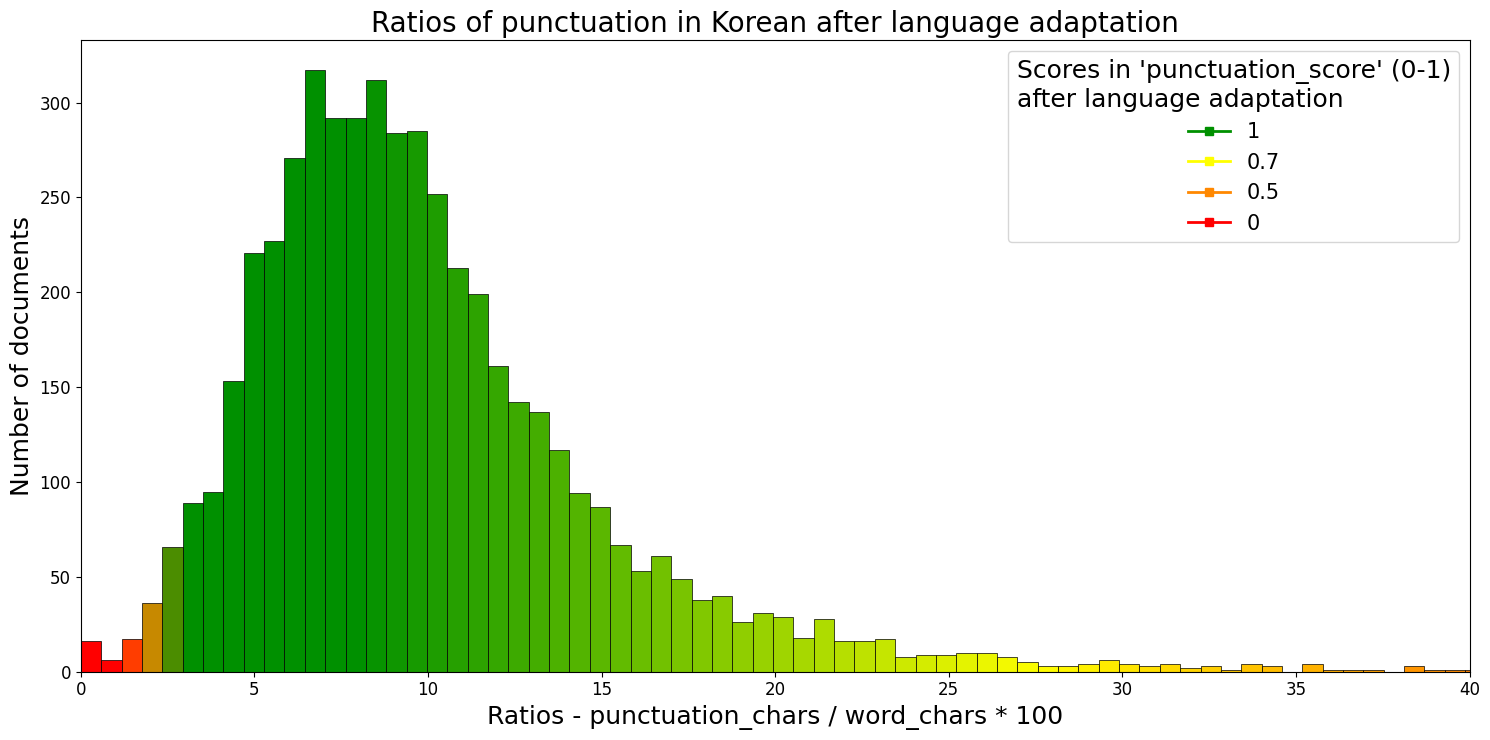
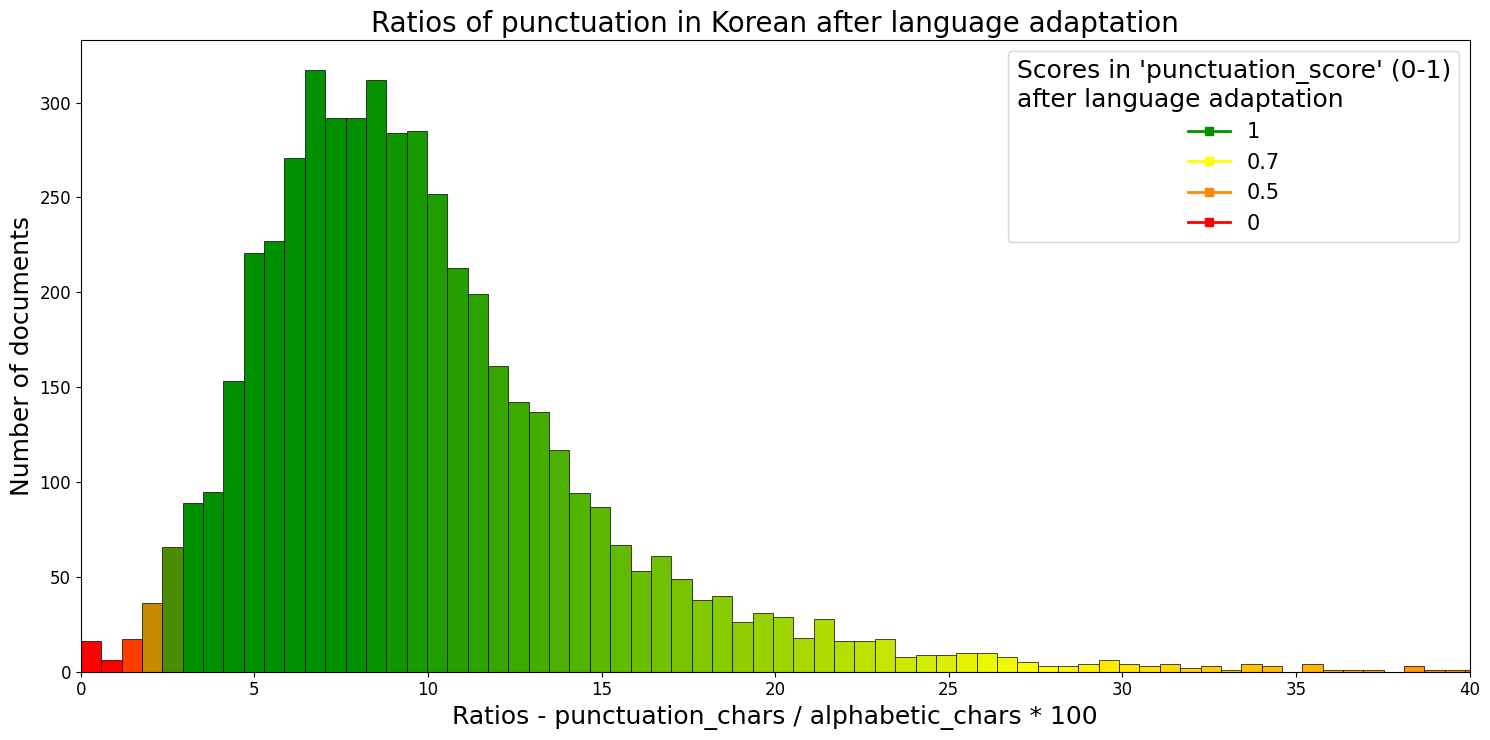
README UPDATES
I think Gema's and Marta's issues are all solved
Histograms changed "word_chars" - "alphabetic_chars"

Changed region(s): [[0.3087, 0.9324, 0.7409, 0.9946]]

diff --git a/qualifications_score_charts.py b/qualifications_score_charts.py
@@ -126,9 +126,9 @@ html = """
               '<td><b>Punctuation score: </b><span class="score">' + punctScore + '<span class="color" style="background-color: ' + colorLanguageScore(punctScore, 0.5, 1) +'; "></span></span></td>' + '</tr>' + '<tr>' +
               '<td><b>Bad chars score: </b><span class="score">' + badCharsScore + '<span class="color" style="background-color: ' + colorLanguageScore(badCharsScore, 0.5, 1) +'; "></span></span></td>' + '</tr>' + '<tr>' +
               '<td><b>Numbers score: </b><span class="score">' + numbersScore + '<span class="color" style="background-color: ' + colorLanguageScore(numbersScore, 0.5, 1) +'; "></span></span></td>' + '</tr>' + '<tr>' +
-              '<td><b>Spam score: </b><span class="score">' + spamScore + '<span class="color" style="background-color: ' + colorLanguageScore(spamScore, 0.5, 1) +'; "></span></span></td>' + '</tr>' + '<tr>' +
+              '<td><b>Repeated score: </b><span class="score">' + spamScore + '<span class="color" style="background-color: ' + colorLanguageScore(spamScore, 0.5, 1) +'; "></span></span></td>' + '</tr>' + '<tr>' +
               '<td><b>Big segments score: </b><span class="score">' + nBigSegmentsScore + '<span class="color" style="background-color: ' + colorLanguageScore(nBigSegmentsScore, 0, 1, '#CCB22E') +'; "></span></span></td>' + '</tr>' + '<tr>' +
-              '<td><b>Great segments score: </b><span class="score">' + greatSegmentScore + '<span class="color" style="background-color: ' + colorLanguageScore(greatSegmentScore, 0, 1, '#CCB22E') +'; "></span></span></td>' + '</tr>' + '</table>' + '</div>';
+              '<td><b>Largest segments score: </b><span class="score">' + greatSegmentScore + '<span class="color" style="background-color: ' + colorLanguageScore(greatSegmentScore, 0, 1, '#CCB22E') +'; "></span></span></td>' + '</tr>' + '</table>' + '</div>';
         }      
         
         

diff --git a/README.md b/README.md
@@ -1,6 +1,6 @@
 # Quality text tagger
 
-Quality Text Tagger is an application that analyzes monolingual documents (from crawled websites) and gives them a quality score that works as a measure of how good or bad the document is (see below). The score is on a  0 (really bad document) to 10 (very good document) scale, and it's obtained by taking into account textual indicators and metadata. 
+Quality Text Tagger is an application that analyzes monolingual documents (from crawled websites) and gives them a quality score that works as a measure of how good or bad the document is (see below). The score is on a  0 (really bad document) to 10 (very good document) scale, and it is obtained by taking into account textual indicators and metadata. 
 
 Good documents (scores 5-10) are those mainly made of linguistic data, containing a large portion of running text distributed across long and well constructed paragraphs. Conversely, bad documents (scores 0-4) are mainly made of non-linguistic characters (like code or emojis) or contain an excess of numbers, puctuation symbols, segment repetitions, etc.  
 
@@ -9,7 +9,25 @@ Quality Text Tagger requires the input documents to be formatted in JSONL, conta
 
 # Table of contents
 
-**[MBG]to do!**
+1. [How does the tagger work](https://gitlab.prompsit.com/hplt/quality-text-tagger#how-does-the-tagger-work)
+    1. [Computing the _quality_score_](https://gitlab.prompsit.com/hplt/quality-text-tagger#computing-the-quality_score)
+    2. [An example of the _quality_score_](https://gitlab.prompsit.com/hplt/quality-text-tagger#an-example-of-the-quality_score)
+    3. [Another example of the _quality_score_](https://gitlab.prompsit.com/hplt/quality-text-tagger#another-example-of-the-quality_score)
+2. [Usage](https://gitlab.prompsit.com/hplt/quality-text-tagger#usage)
+    1. [crawled_text_qualifier.py (main script)](https://gitlab.prompsit.com/hplt/quality-text-tagger#crawled_text_qualifierpy-main-script)
+    2. [quality_score_charts.py](https://gitlab.prompsit.com/hplt/quality-text-tagger#quality_score_chartspy)
+    3. [language_adaptation/extract_ratios.py](https://gitlab.prompsit.com/hplt/quality-text-tagger#language_adaptationextract_ratiospy)
+3. [Computing the _penalty_score_](https://gitlab.prompsit.com/hplt/quality-text-tagger#computing-the-penalty_score)
+4. [Computing subscores](https://gitlab.prompsit.com/hplt/quality-text-tagger#computing-subscores)
+    1. [language_score](https://gitlab.prompsit.com/hplt/quality-text-tagger#language_score)
+    2. [big_segments_score and largest_segments_score](https://gitlab.prompsit.com/hplt/quality-text-tagger#big_segments_score-and-largest_segments_score)
+    3. [urls_score](https://gitlab.prompsit.com/hplt/quality-text-tagger#urls_score)
+    4. [numbers_score](https://gitlab.prompsit.com/hplt/quality-text-tagger#numbers_score)
+    5. [punctuation_score](https://gitlab.prompsit.com/hplt/quality-text-tagger#punctuation_score)
+    6. [bad_chars_score](https://gitlab.prompsit.com/hplt/quality-text-tagger#bad_chars_score)
+    7. [repeated_score](https://gitlab.prompsit.com/hplt/quality-text-tagger#repeated-segments-repeated_score)
+5. [Adaptating subscores to different languages](https://gitlab.prompsit.com/hplt/quality-text-tagger#adaptating-subscores-to-different-languages)
+6. [Glossary](https://gitlab.prompsit.com/hplt/quality-text-tagger#glossary)
 
  
 ## How does the tagger work
@@ -18,7 +36,7 @@ In order to give a **_quality_score_** to a document, the quality text tagger co
 
 | Subcore  |  Based on   |  Scale   | 
 |---|---|---|
-| language_score | ratio of characters in the correct language vs. total characters | 0 - 10 | 
+| language_score | ratio of [alphabetic characters](https://gitlab.prompsit.com/hplt/quality-text-tagger#glossary) in the correct language vs. total characters | 0 - 10 | 
 | big_segments_score | amount of long segments (alphabetic characters) | 0 - 1 | 
 | largest_segments_score | length of largest text segments | 0 - 1 | 
 | urls_score | ratio of URLs vs. total segments | 0 - 1 | 
@@ -52,9 +70,9 @@ Note that the _language_score_ is weighted (since it scores from 0 to 10, while 
 
 `penalty_score = first_lowest_negative_subscore_value * second_lowest_negative_subscore_value * average (remaining_negative_subscores_values) `
 
-`first_lowest_negative_subscore_value` and `second_lowest_negative_subscore_value` are the two subscores with the lowest values.  Please, see section [Computing the _penalty_score_](https://gitlab.prompsit.com/hplt/quality-text-tagger/-/blob/main/README.md#computing-the-penalty_score) for more details.
+`first_lowest_negative_subscore_value` and `second_lowest_negative_subscore_value` are the two subscores with the lowest values. Thus, a 0 value in any of the negative scores will suppose a 0 score in the final _quality_score_ regardless the other scores.  Please, see section [Computing the _penalty_score_](https://gitlab.prompsit.com/hplt/quality-text-tagger/-/blob/main/README.md#computing-the-penalty_score) for more details.
 
-3. Finally, we get the final **_quality_score_** by multipliying the **_basic_score_** by the **_penalty_score_**: 
+3. Finally, we get the final **_quality_score_** by multipliying the **_basic_score_** by the **_penalty_score_**. Note that _penalty_score_ is always 0-1:
 
 `quality score = basic score * penalty score`
 
@@ -97,8 +115,7 @@ As explained in the section above, the **_quality_score_** of the document is co
 
 **quality score** = 9.32 x 0,88 = **8.2** 
 
-This means that this document a good document (**_quality_score_** = 8.2/1) that is clearly in Italian (_language_score_ = 9.9/10). It probably contains a considerable amount of textual data in some segments (_largest_segment_score_ = 1/1), but it only contains 4 long segments (_big_segments_score_ = 0.4/1).
-[MBG] Plz explain a bit more what " contains a considerable amount of textual data in some segments" means. 
+This means that the previous example is a good document (**_quality_score_** = 8.2/10), that is clearly in Italian (_language_score_ = 9.9/10). It probably contains a considerable amount of textual data in some segments (_largest_segment_score_ = 1/1), because there is almost one 'very big segment', but it only contains 4 'big segments' (_big_segments_score_ = 0.4/1). For Italian we consider 'very big segments' those with more than 1208 alphabetic characters and to be considered a 'big segment' almost 302 alphabetic characters are needed. For more information about these scores see the [big_segments_score and largest_segments_score](https://gitlab.prompsit.com/hplt/quality-text-tagger#big_segments_score-and-largest_segments_score) and [Adaptating subscores to different languages](https://gitlab.prompsit.com/hplt/quality-text-tagger#adaptating-subscores-to-different-languages) sections.
 
 The document does not contain enough URLs, punctuation or bad characters noise to be penalized because of it (_url_score_ = 1/1, _punctuation_score_ = 1/1, _bad_chars_score_ = 1/1). It contains a small excess of numbers (_numbers_score_ = 0.92/1), which could be due to the presence of a calendar present in the text:
 
@@ -112,7 +129,7 @@ The document also has some repeated segments (_repeated_score_ = 0.96/1) caused 
 
 ### Another example of the _quality_score_
 
-The following excerpt belongs to the file `example/example2.txt`, a Chinese document from the HPLT v1.2 dataset. The document got a **quality_score** of 1.5:
+The following excerpt belongs to the file `example/example2.txt`, a bad scored Chinese document from the HPLT v1.2 dataset. The document got a **_quality_score_** of 1.5:
 
 > [...]
 >  
@@ -153,7 +170,7 @@ This text seems to be mostly made of short segments (note the very low values fo
 
 
 The document does not seem to have bad punctuation or bad characters, and it does not contain repeated sentences. However, it has an excess of numeric characters and URLs. This has a high impact on the _penalty_score_ value:
-U
+
 |penalty score| Result |
 |---|---|
 |0.44 * 0.56 * 0.97| 0.24 |
@@ -168,44 +185,69 @@ With such a low quality score, this document can be considered an undesirable do
 
 ## Usage
 
-[MBG] Please give this section a format in the fashion of  https://github.com/bitextor/bicleaner?tab=readme-ov-file#parameters-1
-(schematic + description + example)
 
-#### crawled_text_qualifier.py (main script)
+### crawled_text_qualifier.py
 
-Parameters 
-- **--input** directory with jsonl files provided by the language identifier
-- **--output:** existing directory
+The main script, it will create a csv for each jsonl present in the input directory. The input jsonl files must contain the next columns:
+- `id`: identifier of the document, must be unique.
+- `document_lang`: language label of the whole document.
+- `scores`: list of language probability scores from the language identifier.
+- `langs`: list of language labels for each segment of the document.
+- `text`: text of the document. Segments must be separated by _\n_.
 
-Output
-- will create one csv for each jsonl file.
-- columns: quality_score, language_score, url_score, punctuation_score, bad_chars_score, numbers_score, repeated_score,n_big_segments_score, great_segment_score
+The output csvs will contain the next columns. The final score will always be considered the _quality_score_:
+- quality_score
+- language_score
+- url_score
+- punctuation_score
+- bad_chars_score
+- numbers_score
+- repeated_score
+- n_big_segments_score
+- great_segment_score
 
-Requisites
+#### Parameters
+- ```input```: directory with jsonl files provided by the language identifier
+- ```output```: existing directory
+- ```config```: path of the `medians_language.csv` document
 
-- document `./language_adaptation/medians_language.csv` created by `./language_adaptation/extract_ratios.py` with samples of data
+#### Example
 
-#### quality_score_charts.py
+```python3 crawled_text_qualifier.py --input=input_dir --output=output_dir --config=language_adaptation/medians_language.csv ```
 
-Parameters 
-- **--input** directory with csv files created by `crawled_text_qualifier.py`
-- **--output:** existing directory
 
-Output
-- HTML document with histograms about all languages present in the input
+#### Requirements
+The document `./language_adaptation/medians_language.csv` created by `./language_adaptation/extract_ratios.py` is needed. It can be used the csv present by default in the repository or it can be created with custom data. These data is used as a model to undestand the differences between languages, so in a custom approach the text data used must be representative, diverse and comparable.
+
+### quality_score_charts.py
+
+Script that creates a HTML document with one histogram for every csv document in the input.
+
+#### Parameters 
+- ```input```: directory with the csvs obtained with `crawled_text_qualifier.py`
+- ```output```: existing directory
+
+#### Example
+
+```python3 quality_score_charts.py --input=input_dir --output=output_dir ```
+
+#### Requirements
+
+It is needed a directory with the `crawled_text_qualifier.py` output.
 
 #### language_adaptation/extract_ratios.py
 
-- **--input** directory with jsonl files with HPLT 1.2v like structure of key and values
-- **--output:** existing directory
+This script extracts the median ratios of numbers, punctuation and bad characters which are used to process the language adaptation from a sample of documents. The input data must consists in a jsonl file for every language with the structure of HPLT 1.2v. The selected data must be representative, diverse and comparable.
 
-Output
-- CSV that contains the medians of numbers, punctuation and bad characters ratios in every language present in the directory
+#### Parameters 
+- ```input```: directory with jsonl files they must have the HPLT 1.2v like structure regarding keys and values.
+- ```output```: existing directory
 
+#### Example
+
+```python3 extract_ratios.py --input=input_dir --output=output_dir ```
 
 ## Computing the _penalty_score_
-
-[MBG] Consider changing the name from "penalty score" to "booster", since it is actually multiplied by the first score instead of substracted from it (I got confused by the name)
 
 The _penalty_score_  is obtained with `crawled_text_qualifier.custom_mean()` . The subscores used to compute the **_penalty_score_** are those that represent the negative aspects of the document:
   *  _urls_score_
@@ -214,7 +256,7 @@ The _penalty_score_  is obtained with `crawled_text_qualifier.custom_mean()` . T
   * _bad_chars_score_
   * _repeated_score_
 
-The _penalty_score_ ranges on a scale from 0 (the document is severely penalized and gets a final quality score of 0) to 1 (no penalization is applied).
+The _penalty_score_ ranges on a scale from 0 (the document is severely penalized and gets a final _quality_score_ of 0) to 1 (no penalization is applied).
 
 To compute the _penalty_score_, the two lowest values from the aforementioned subsscores are multiplied by the average of the rest of values:
 
@@ -238,10 +280,9 @@ Segments below a certain length threshold are not taken into account to this met
 These two metrics are obtained with `crawled_text_qualifier.valorate_big_texts()`.  They get values between 0 and 1 that aim at determining the presence of large groups of alphabetic characters in the correct language. 
 
 Regarding the _big_segments_score_, a document receives 0.1 score points for every large segment, up to a maximum score of 1. The length of what we consider a 'large segment' depends on each language and is measured using alphabetic characters. In Spanish, we set the minimum number of alphabetic characters to 250 but in English, for example, the minimum is 232. For more details about language adaptation see the [Adapting subscores to different languages](https://gitlab.prompsit.com/hplt/quality-text-tagger/-/blob/main/README.md#adaptating-subscores-to-different-languages) section.
-[MBG] Consider  normalizing this value with the length of the document, in order to avoid penalizing short documents.
+<!-- [MBG] Consider  normalizing this value with the length of the document, in order to avoid penalizing short documents. -->
 
-On the other hand, the _largest_segments_score_ is used to measure whether a document contains at least one very large segment. The lenght of what we consider a 'very large segment' is also language-dependent. In Spanish, a segment of this kind has between 625 and 1000 alphabetic characters. Depending on the lenght, we assign a value from 0 to 1. If a segment containing 1000 alphabetic characters (or more) is found in a Spanish document, it will receive a score of 1. Likewise, if a document only contains segments with 625 or less alphabetic characters, the resulting _largest_segments_score_ will be 0. If there is more than one of these segments (between both thresholds), we use an average of them.
-[MBG] An example of the latter case, plz? You average them but how? the average of lenghts? And then it gets mapped to a value between 0 to 1? 
+On the other hand, the _largest_segments_score_ is used to measure whether a document contains at least one very large segment. The lenght of what we consider a 'very large segment' is also language-dependent. In Spanish, a segment of this kind has between 625 and 1000 alphabetic characters. Depending on the lenght, we assign a value from 0 to 1. If a segment containing 1000 alphabetic characters (or more) is found in a Spanish document, it will receive a score of 1. Likewise, if a document only contains segments with 625 or less alphabetic characters, the resulting _largest_segments_score_ will be 0. If there is more than one of these segments (inside both thresholds), we use an average of their lengths to calculate the value.
 
 ### urls_score
 
@@ -250,7 +291,7 @@ The _urls_score_ is language independent, and its value is not lineal. We first 
 
 `number_of_urls / number_of_segments * 100`
 
-Then, a final _urls_score_ is assigned to the document, depending on the percentage of URLs. Documents having more than a 5% of URLs are non-lineally penalized as follows:
+Then, a final _urls_score_ is assigned to the document, depending on the percentage of URLs. Documents having more than a 5% of URLs are lineally penalized as follows:
 
 | URL score  |    Ratio      |
 |---|---|
@@ -259,15 +300,13 @@ Then, a final _urls_score_ is assigned to the document, depending on the percent
 | 0.5 → 0 | 30 → 100 |
 | 0 | >100 |
 
-[MBG] The distribution is lineal in each step?
-
 ### numbers_score
 
 This metric is processed with `crawled_text_qualifier.valorate_numbers()`, and it's used to determine whether there is a high number of numeric characters in a document. It is computed by getting the percentage of numeric characters compared to alphabetic characters:
 
 `numeric_characters / alphabetic_characters * 100`
 
-This metric and its thresholds are non-lineal and language-dependent. In Spanish, for example, we assign scores as follows:
+This metric and its thresholds are lineal and language-dependent. In Spanish, for example, we assign scores as follows:
 
 | Number score  |    Percentage      |
 |---|---|
@@ -277,15 +316,13 @@ This metric and its thresholds are non-lineal and language-dependent. In Spanish
 | 0.5 → 0 | 15 → 30 |
 | 0 | >30 |
 
-[MBG]  Same question as above.
-
 ### punctuation_score
 
 The _punctuation_score_ is processed with `crawled_text_qualifier.valorate_punctuation()`. This score is used to penalize texts with too much or too little amount of punctuation characters. The percentage of punctuation characters is calculed this way:
 
 `punctuation_characters / alphabetic_characters * 100`
 
-Again, this metric and its threshold are non-linal and  language-dependent. In Spanish, for example, we give scores according to the following percentages of punctuation characters:
+Again, this metric and its threshold are lineal and  language-dependent. In Spanish, for example, we give scores according to the following percentages of punctuation characters:
 
 | Punctuation score  |    Percentage      |
 |---|---|
@@ -308,7 +345,7 @@ This subscores is processed with `crawled_text_qualifier.valorate_bad_chars()`, 
 
 `bad_characters / alphabetic_characters * 100`
 
-This score and its thresholds are non-lineal and language-dependent. In Spanish, for example, the score distribution is as follows:
+This score and its thresholds are lineal and language-dependent. In Spanish, for example, the score distribution is as follows:
 
 | Bad chars score  |    Percentage      |
 |---|---|
@@ -336,30 +373,36 @@ Also the 'short segments' threshold, indicating the minimum amount of characters
 
 In our experiments, as a first approach, we stablished the desidered ratios and thresholds for each indicator for the Spanish language, by using a sample  from HPLT v1.2. These ratios are valid for this language only, so an adaptation method is needed for other languages.
 
-In order to adapt the values to other languages, we used the scores and labels provided as metadata in HPLT v1.2. Using a random sample of 10k documents per language, we selected the 50% best language-scored documents ([MBG] Those with most segments in the document language? Plz specify.) and computed ratios for the punctuation, bad characters and numbers subscores. The median for each subscore was computed with `language_adaptation/extract_ratios.py` (GEMA: review this) and then stored in `language_adaptation/medians_language.csv`.Finally, medians are used in the main script (`crawled_text_qualifier.py`) in order to create equivalences between ratios and scores. (GEMA: and this)
+In order to adapt the values to other languages, we used the scores and labels provided as metadata in HPLT v1.2. in a sample of 10k documents per language. Every document was analized with a modified version of the [_language_score_](https://gitlab.prompsit.com/hplt/quality-text-tagger/-/blob/main/README.md#language_score). This language scoring is done like the other one with a difference, the number of correct alphabetic characters of every segment is multiplied by the language identificator probability of the segment. We want to know which documents have the highest proportion of segments and the better probability in the correct language. For example, let us consider a document with three segments, the first one has a language probability of 0.9 and contains 500 words characters. The second one is more confuse, with a probability of 0.4 with 25 alphabetic characters. The third is not in the correct language and has a lengh of 10 alphabetic characters. The calculation of this modified _language_score_ will be:
 
-Applying the Spanish ratios-score logic to other languages, which can be highly different, produces innacurate _quality_scores_. The histograms below show an example in Korean, where documents that look good got penalized:
+```
+sum(correct_word_characters * language_probability) / sum(correct_word_characters + wrong_word_characters) * 10
+
+(500 * 0.9 + 25 * 0.4) / (500 + 25 + 10) * 10 = 8.6
+```
+
+Using thse random samples of 10k documents, we selected the 50% best scored documents to extract their ratios for punctuation, bad characters and numbers. The medians of ratios, that we will need for each subscore, was computed with `language_adaptation/extract_ratios.py` and then stored in `language_adaptation/medians_language.csv`. Finally, medians are used in the main script (`crawled_text_qualifier.py`) in order to adapt ratios to every language.
+
+Applying the Spanish ratio-score equivalences to other languages, which can be highly different, produces innacurate _quality_scores_. The histograms below show an example in Korean, where documents that look good got penalized. The samples in the pictures are processed with the same ratio-score equivalences that we showed in the table of [_punctuation_score_](https://gitlab.prompsit.com/hplt/quality-text-tagger/-/blob/main/README.md#punctuation_score):
 
 ![alt text](example/spanish.png)
 ![alt text](example/korean_non_adapted.png)
 
-[MBG] I'd need to have the info on which were the thresholds in Spanish, so I can understand what gets (wrongly) discarded in Korean. Is it the median?
-
 Aiming at solving this problem, we decided to use medians as a point of reference to more accurately set score ranges. In the example above, Korean has a median of 7.3 in the punctuation score, while Spanish has a median of 2.4. We used this information to make a cross-multiplication in order to get a new and adapted score-ratio relation:
-
-[MBG] I replaced all the mentions to "word characters" to "alphabetic characters", because the other is confusing. If possible, plz change it in the histograms.
 
 ![alt text](example/korean_adapted.png)
 
-Using another example, the median of both Russian and Spanish for bad chararcters is the same (0.8), so no adjustments are needed. However, for regular punctuation, ([MBG] What is "regular punctuation"? Has it been mentioned before?) the median is different: 3.2 for Russian and 2.4 in Spanish. In this case, adjustments are indeed needed. The main script uses, again, a cross-multiplication to solve this and set more appropiate values for Russian. If we use the 0.9 ratio (which in Spanish is considered a 1/1 score), it means that Russian needs a 1.2 ratio to get a 1/1 score in the _punctuation_score_:
-[MBG] I don't think I get it?
+Using another example, the median of both Russian and Spanish for bad characters is the same (0.8), so no adjustments are needed. However, for punctuation, the median is different: 3.2 for Russian and 2.4 in Spanish. In this case, adjustments are indeed needed. The main script uses, again, a cross-multiplication to solve this and set more appropiate values for Russian. If we consider the _punctuation_score_ table (see table below), in Spanish a ratio between **0.9** and **2.5** is mandatory to get a perfect document (_punctuation_score_ = 1). With the cross-multiplication conversion, we can fit a better benchmark for non penalized documents:
+
 `(3.2 * 0.9) / 2.4 = 1.2`
+
+`(3.2 * 2.5) / 2.4 = 3.3`
 
 As a result, the adapted table for Russian regarding the _punctuation_score_ is as follows:
 
 | Punctuation score  |    Ratio Spanish      | Ratio Russian |
 |---|---|---|
-| 1 | 0.9 → 2.5 | 1.2 → 3.3 |
+| 1 | **0.9** → 2.5 | 1.2 → 3.3 |
 | __Too much__  |
 | 1 → 0.7 | 2.5 → 9 | 3.3 → 12 |
 | 0.7 → 0.5 | 9 → 13 | 12 → 17.3 |
@@ -375,7 +418,9 @@ Note that not only the relative values are adapted (_punctuation_score_, _bad_ch
 
 `2.4 * 1000 / 6.5`
 
-The relationship between punctuation and alphabetic characters is inversely proportional: as the number of punctuation symbols per alphabetic characters increases, the average number of alphabetic characters decreases. (GEMA: revisar esto. ) [MBG] I am not sure I am understanding it.
+The inverse cross-multiplication is used because the relationship between punctuation and alphabetic characters is inversely proportional. A language that normally uses less alphabetic characters than other will have a bigger ratio of punctuation. For example, in our test sample, German has a punctuation ratio of 2.8, this means that every punctuation mark usually needs 36 alphabetic characters (100/2.8 ≈ 36). In Chinese we found a ratio of 9.9, 10 alphabetic characters are thus needed every 10 alphabetic characters. We use the punctuation as a point of reference to extract the average alphabetic characters of the language, so we can obtain the conversion of what we called big or very big segments.
+
+In case the analysed language is not present in `language_adaptation/medians_language.csv`, we use the average ratio of the other languages in the csv.
 
 ## Glossary
 - _document_: whole text of a crawled website
